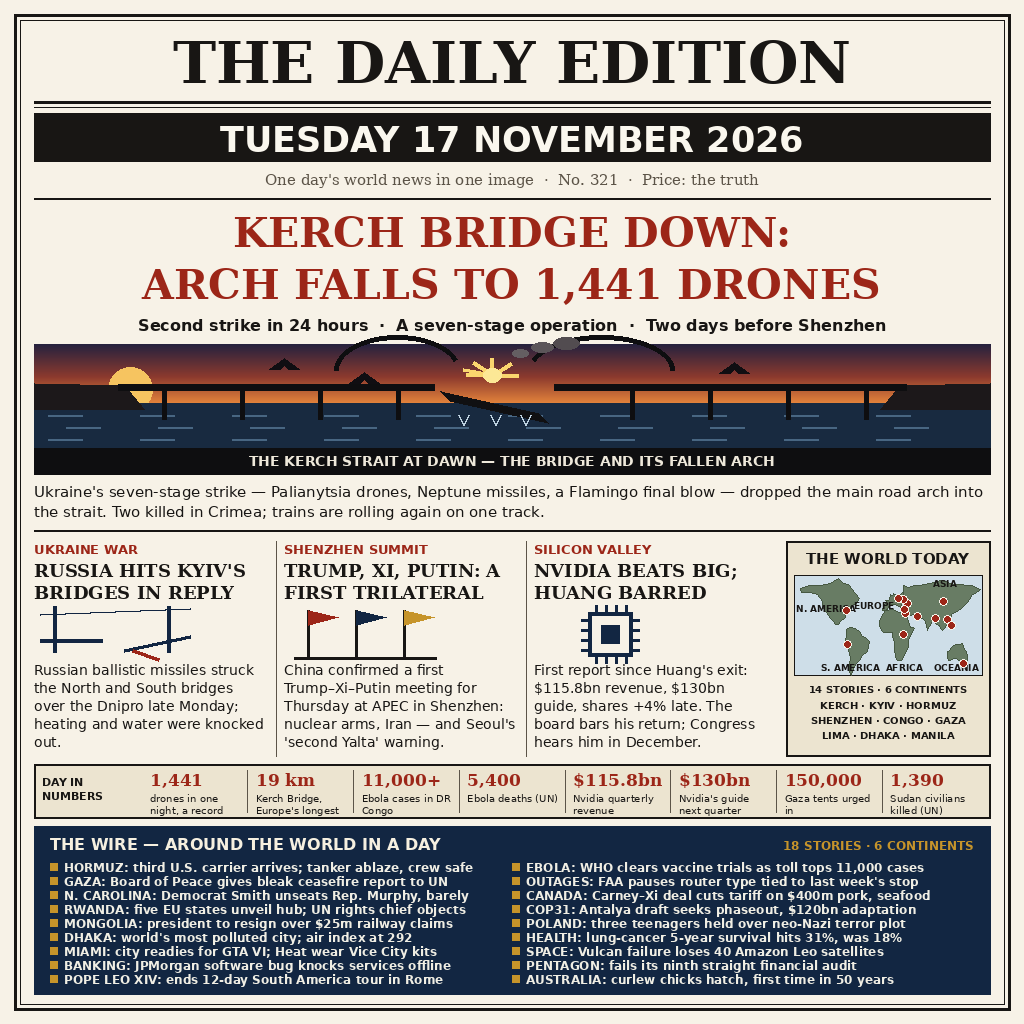
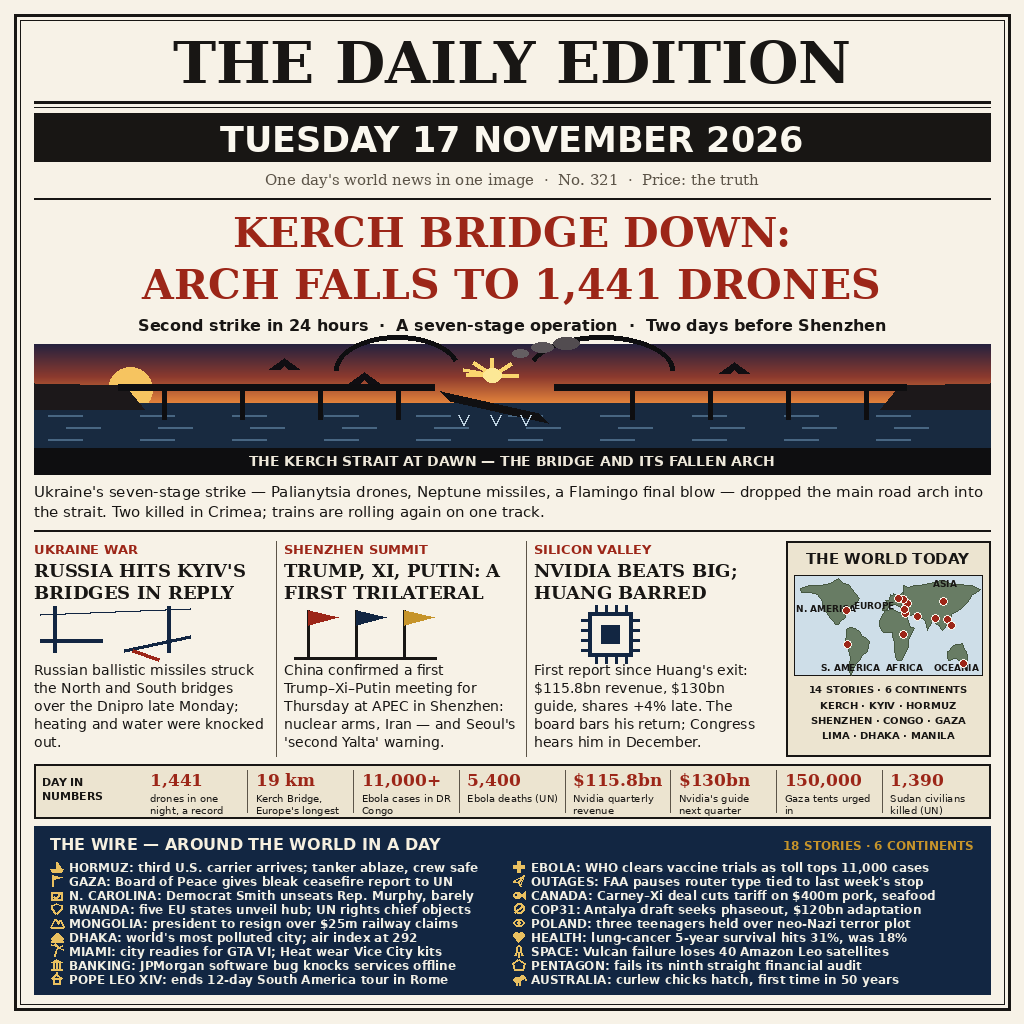
Fix round (judge eval 2026-11-18): wire spot glyphs — every wire story illustrated
Panel's single biggest fixable deficiency: illustration density
(field top illustrates 12-13 stories; this page illustrated 4).
Each of the 18 wire items now carries its own drawn spot glyph.
Deterministic rebuild verified (identical sha256 across runs).
HELD submit-ready — not submitted; the last quota slot stays
reserved as restore-insurance until the live rate publishes.

Changed region(s): [[0.0312, 0.8438, 0.4688, 0.9688], [0.5, 0.8438, 0.9062, 0.9688]]

diff --git a/build_image.py b/build_image.py
@@ -18,6 +18,13 @@ deterministically with Pillow from the string constants below: no
 randomness, no network, no external assets beyond system fonts.
 Running this file rewrites entry.png next to it, byte for byte the
 same on every run.
+
+Fix round (judge evaluation 2026-11-18): the panel's single biggest
+fixable deficiency was illustration density — the field's top pages
+illustrate 12–13 stories; this page illustrated 4 (hero + 3 columns).
+Each wire item now carries its own drawn spot glyph (ship, ballot,
+rocket, bank, bird…), so all 18 wire stories are illustrated too.
+Nothing else on the page changed.
 """
 
 from pathlib import Path
@@ -190,6 +197,104 @@ def chip_icon(draw, x, y):
         draw.line([(bx + bs, by + off), (bx + bs + 7, by + off)], fill=NAVY, width=3)
     draw.rectangle([bx, by, bx + bs, by + bs], outline=NAVY, width=4)
     draw.rectangle([bx + 13, by + 13, bx + bs - 13, by + bs - 13], fill=NAVY)
+
+
+# ------------------------------------------------------- wire spot glyphs
+# One small pictogram per wire story, drawn in a 13x13 box at (x, y) in
+# light gold on the navy band — every wire item is illustrated, not just
+# bulleted.  Primitives only, so the page stays deterministic.
+GLYPH_INK = (233, 192, 96)
+
+
+def wire_glyph(draw, kind, x, y):
+    g = GLYPH_INK
+    if kind == "ship":
+        draw.polygon([(x, y + 9), (x + 13, y + 9), (x + 11, y + 12),
+                      (x + 2, y + 12)], fill=g)
+        draw.line([(x + 6, y + 2), (x + 6, y + 9)], fill=g, width=2)
+        draw.polygon([(x + 7, y + 2), (x + 7, y + 8), (x + 11, y + 8)], fill=g)
+    elif kind == "cross":
+        draw.rectangle([x + 5, y + 1, x + 8, y + 12], fill=g)
+        draw.rectangle([x + 1, y + 5, x + 12, y + 8], fill=g)
+    elif kind == "flag":
+        draw.line([(x + 2, y + 1), (x + 2, y + 12)], fill=g, width=2)
+        draw.polygon([(x + 2, y + 1), (x + 12, y + 3), (x + 2, y + 6)], fill=g)
+    elif kind == "plane":
+        draw.polygon([(x + 1, y + 7), (x + 12, y + 1), (x + 8, y + 12),
+                      (x + 6, y + 8)], outline=g)
+        draw.line([(x + 6, y + 8), (x + 12, y + 1)], fill=g, width=2)
+        draw.line([(x + 1, y + 7), (x + 6, y + 8)], fill=g, width=2)
+        draw.line([(x + 6, y + 8), (x + 8, y + 12)], fill=g, width=2)
+    elif kind == "ballot":
+        draw.rectangle([x + 1, y + 4, x + 12, y + 12], outline=g, width=2)
+        draw.line([(x + 3, y + 8), (x + 6, y + 11), (x + 10, y + 5)],
+                  fill=g, width=2)
+    elif kind == "fish":
+        draw.ellipse([x + 1, y + 4, x + 9, y + 10], fill=g)
+        draw.polygon([(x + 9, y + 7), (x + 13, y + 3), (x + 13, y + 11)],
+                     fill=g)
+        draw.ellipse([x + 3, y + 6, x + 4, y + 7], fill=NAVY)
+    elif kind == "shield":
+        pts = [(x + 6, y + 1), (x + 11, y + 3), (x + 11, y + 7),
+               (x + 6, y + 12), (x + 2, y + 7), (x + 2, y + 3)]
+        draw.line(pts + [pts[0]], fill=g, width=2, joint="curve")
+    elif kind == "leaf":
+        draw.ellipse([x + 2, y + 1, x + 12, y + 11], outline=g, width=2)
+        draw.line([(x + 3, y + 10), (x + 11, y + 3)], fill=g, width=2)
+    elif kind == "mountain":
+        pts = [(x + 1, y + 11), (x + 5, y + 3), (x + 8, y + 7),
+               (x + 10, y + 4), (x + 13, y + 11)]
+        draw.line(pts, fill=g, width=2, joint="curve")
+        draw.line([(x + 1, y + 11), (x + 13, y + 11)], fill=g, width=2)
+    elif kind == "eye":
+        draw.ellipse([x + 1, y + 3, x + 12, y + 10], outline=g, width=2)
+        draw.ellipse([x + 5, y + 5, x + 8, y + 8], fill=g)
+    elif kind == "cloud":
+        draw.ellipse([x + 1, y + 6, x + 7, y + 11], fill=g)
+        draw.ellipse([x + 4, y + 3, x + 10, y + 11], fill=g)
+        draw.ellipse([x + 7, y + 6, x + 13, y + 11], fill=g)
+        draw.line([(x + 1, y + 11), (x + 13, y + 11)], fill=g, width=2)
+    elif kind == "heart":
+        draw.ellipse([x + 1, y + 2, x + 7, y + 8], fill=g)
+        draw.ellipse([x + 6, y + 2, x + 12, y + 8], fill=g)
+        draw.polygon([(x + 1, y + 6), (x + 12, y + 6), (x + 6, y + 12)],
+                     fill=g)
+    elif kind == "palm":
+        draw.line([(x + 5, y + 12), (x + 6, y + 7), (x + 8, y + 3)],
+                  fill=g, width=2, joint="curve")
+        for ex, ey in [(x + 1, y + 1), (x + 5, y), (x + 12, y + 1),
+                       (x + 13, y + 5)]:
+            draw.line([(x + 8, y + 3), (ex, ey)], fill=g, width=2)
+    elif kind == "rocket":
+        draw.ellipse([x + 4, y + 1, x + 9, y + 9], outline=g, width=2)
+        draw.polygon([(x + 4, y + 7), (x + 2, y + 11), (x + 4, y + 11)],
+                     fill=g)
+        draw.polygon([(x + 9, y + 7), (x + 11, y + 11), (x + 9, y + 11)],
+                     fill=g)
+        draw.line([(x + 6, y + 10), (x + 6, y + 13)], fill=g, width=2)
+    elif kind == "bank":
+        draw.polygon([(x + 1, y + 4), (x + 6, y + 1), (x + 12, y + 4)],
+                     fill=g)
+        for cx in (x + 3, x + 6, x + 9):
+            draw.line([(cx, y + 5), (cx, y + 10)], fill=g, width=2)
+        draw.line([(x + 1, y + 11), (x + 12, y + 11)], fill=g, width=2)
+    elif kind == "pentagon":
+        pts = [(x + 6, y + 1), (x + 12, y + 5), (x + 10, y + 12),
+               (x + 3, y + 12), (x + 1, y + 5)]
+        draw.line(pts + [pts[0]], fill=g, width=2, joint="curve")
+    elif kind == "church":
+        draw.rectangle([x + 3, y + 6, x + 10, y + 12], outline=g, width=2)
+        pts = [(x + 2, y + 6), (x + 6, y + 2), (x + 11, y + 6)]
+        draw.line(pts, fill=g, width=2, joint="curve")
+        draw.line([(x + 6, y), (x + 6, y + 2)], fill=g, width=2)
+    elif kind == "bird":
+        draw.ellipse([x + 1, y + 5, x + 9, y + 10], fill=g)
+        draw.ellipse([x + 8, y + 3, x + 12, y + 7], fill=g)
+        draw.line([(x + 12, y + 5), (x + 13, y + 8)], fill=g, width=2)
+        draw.line([(x + 4, y + 10), (x + 4, y + 13)], fill=g, width=2)
+        draw.line([(x + 7, y + 10), (x + 7, y + 13)], fill=g, width=2)
+    else:  # fallback: the original plain bullet
+        draw.rectangle([x + 3, y + 3, x + 10, y + 10], fill=GOLD)
 
 
 # ---------------------------------------------------------------- world map
@@ -402,31 +507,31 @@ def build():
     d.text((R - 16 - text_w(d, right, font(SANS_BOLD, 12)), wy + 12), right,
            font=font(SANS_BOLD, 12), fill=GOLD)
     wire = [
-        "HORMUZ: third U.S. carrier arrives; tanker ablaze, crew safe",
-        "EBOLA: WHO clears vaccine trials as toll tops 11,000 cases",
-        "GAZA: Board of Peace gives bleak ceasefire report to UN",
-        "OUTAGES: FAA pauses router type tied to last week's stop",
-        "N. CAROLINA: Democrat Smith unseats Rep. Murphy, barely",
-        "CANADA: Carney–Xi deal cuts tariff on $400m pork, seafood",
-        "RWANDA: five EU states unveil hub; UN rights chief objects",
-        "COP31: Antalya draft seeks phaseout, $120bn adaptation",
-        "MONGOLIA: president to resign over $25m railway claims",
-        "POLAND: three teenagers held over neo-Nazi terror plot",
-        "DHAKA: world's most polluted city; air index at 292",
-        "HEALTH: lung-cancer 5-year survival hits 31%, was 18%",
-        "MIAMI: city readies for GTA VI; Heat wear Vice City kits",
-        "SPACE: Vulcan failure loses 40 Amazon Leo satellites",
-        "BANKING: JPMorgan software bug knocks services offline",
-        "PENTAGON: fails its ninth straight financial audit",
-        "POPE LEO XIV: ends 12-day South America tour in Rome",
-        "AUSTRALIA: curlew chicks hatch, first time in 50 years",
+        ("ship", "HORMUZ: third U.S. carrier arrives; tanker ablaze, crew safe"),
+        ("cross", "EBOLA: WHO clears vaccine trials as toll tops 11,000 cases"),
+        ("flag", "GAZA: Board of Peace gives bleak ceasefire report to UN"),
+        ("plane", "OUTAGES: FAA pauses router type tied to last week's stop"),
+        ("ballot", "N. CAROLINA: Democrat Smith unseats Rep. Murphy, barely"),
+        ("fish", "CANADA: Carney–Xi deal cuts tariff on $400m pork, seafood"),
+        ("shield", "RWANDA: five EU states unveil hub; UN rights chief objects"),
+        ("leaf", "COP31: Antalya draft seeks phaseout, $120bn adaptation"),
+        ("mountain", "MONGOLIA: president to resign over $25m railway claims"),
+        ("eye", "POLAND: three teenagers held over neo-Nazi terror plot"),
+        ("cloud", "DHAKA: world's most polluted city; air index at 292"),
+        ("heart", "HEALTH: lung-cancer 5-year survival hits 31%, was 18%"),
+        ("palm", "MIAMI: city readies for GTA VI; Heat wear Vice City kits"),
+        ("rocket", "SPACE: Vulcan failure loses 40 Amazon Leo satellites"),
+        ("bank", "BANKING: JPMorgan software bug knocks services offline"),
+        ("pentagon", "PENTAGON: fails its ninth straight financial audit"),
+        ("church", "POPE LEO XIV: ends 12-day South America tour in Rome"),
+        ("bird", "AUSTRALIA: curlew chicks hatch, first time in 50 years"),
     ]
     cell_w = (R - M - 32) // 2
-    for i, item in enumerate(wire):
+    for i, (kind, item) in enumerate(wire):
         cx = M + 16 + (i % 2) * cell_w
         cy = wy + 34 + (i // 2) * 14
-        d.rectangle([cx, cy + 3, cx + 7, cy + 10], fill=GOLD)
-        d.text((cx + 14, cy), item, font=font(SANS_BOLD, 12),
+        wire_glyph(d, kind, cx, cy)
+        d.text((cx + 19, cy), item, font=font(SANS_BOLD, 12),
                fill=(240, 238, 228))
 
     return img
